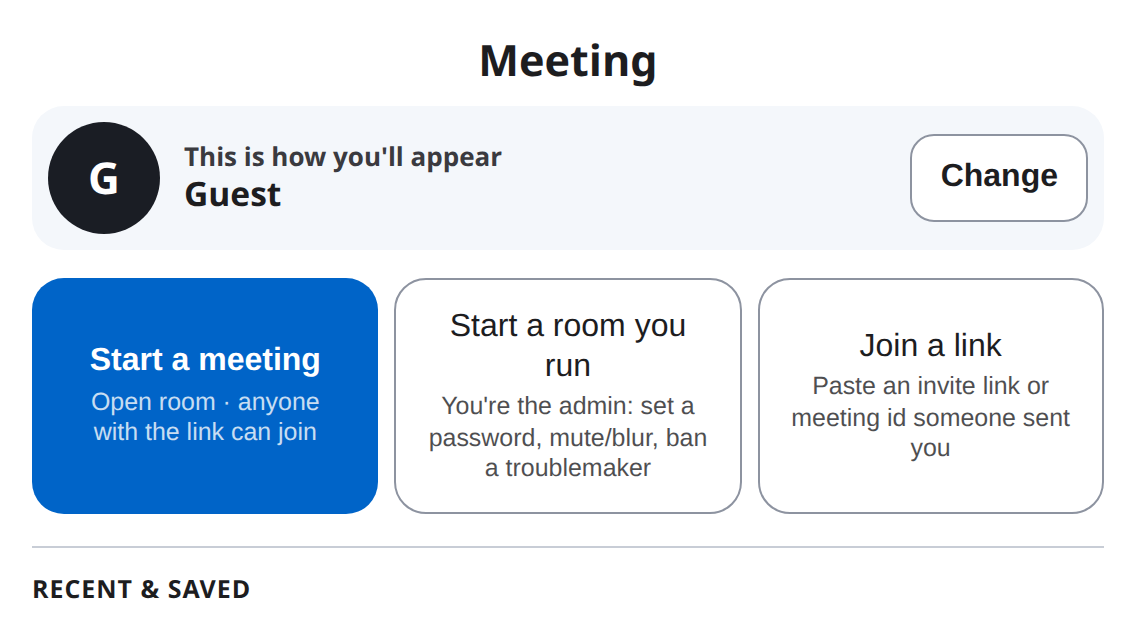
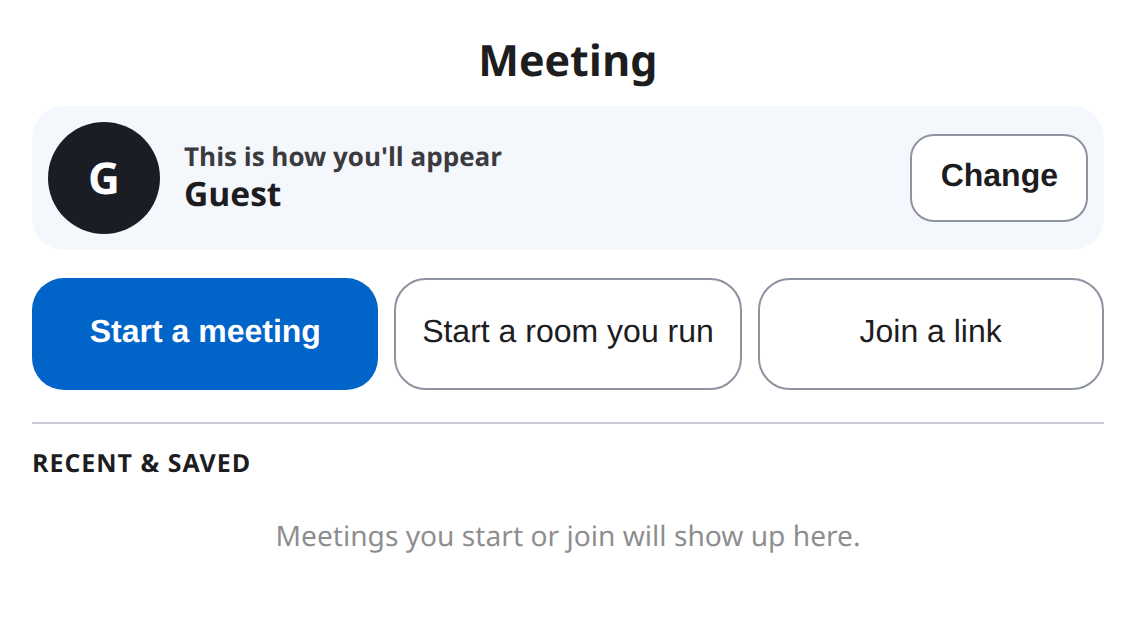
Meet mobile: keep Start and Join on screen at 200% text.
A phone lobby drops the essay under each action so the titles can grow and still fit an SE, including sideways. Start stays the only blue button.

diff --git a/test/mobile/lobby-large-text.js b/test/mobile/lobby-large-text.js
@@ -1,0 +1,89 @@
+/*
+ * At 200% text a church volunteer on an SE still has to see Start and
+ * Join without scrolling. The essays under the buttons used to push Join
+ * off a 568px screen.
+ *
+ *   NODE_PATH=/tmp/qa-pw/node_modules node test/mobile/lobby-large-text.js
+ */
+const fs = require('fs');
+const path = require('path');
+const { chromium, devices } = require('playwright');
+
+const BASE = process.env.MEET_BASE || 'http://127.0.0.1:8765';
+const SHOTS = path.join(__dirname, '..', '..', 'qa', 'mobile', 'shots');
+const IDS = ['lob-open', 'lob-admin-btn', 'lob-join-btn'];
+
+function land(device) {
+  const o = Object.assign({}, device);
+  o.viewport = { width: device.viewport.height, height: device.viewport.width };
+  return o;
+}
+
+(async () => {
+  fs.mkdirSync(SHOTS, { recursive: true });
+  const browser = await chromium.launch({ headless: true });
+  const failures = [];
+  const phones = [
+    { name: 'iphone-se-200', device: devices['iPhone SE'] },
+    { name: 'iphone-se-land-200', device: land(devices['iPhone SE']) },
+  ];
+  for (const phone of phones) {
+    const context = await browser.newContext(Object.assign({}, phone.device, { hasTouch: true }));
+    await context.addInitScript(() => { try { localStorage.setItem('gifos_ui_scale', '2'); } catch (e) {} });
+    const page = await context.newPage();
+    await page.goto(BASE + '/run.html', { waitUntil: 'domcontentloaded', timeout: 20000 });
+    await page.waitForSelector('#lob-join-btn', { timeout: 15000 });
+    await page.waitForTimeout(200);
+    const info = await page.evaluate((ids) => {
+      const vh = window.innerHeight, vw = window.innerWidth;
+      return {
+        vh: vh, vw: vw,
+        buttons: ids.map((id) => {
+          const el = document.getElementById(id);
+          const b = el.getBoundingClientRect();
+          const cs = getComputedStyle(el);
+          return {
+            id: id,
+            top: b.top, bottom: b.bottom, left: b.left, right: b.right,
+            h: b.height, w: b.width,
+            font: parseFloat(cs.fontSize),
+            bg: cs.backgroundColor,
+          };
+        }),
+      };
+    }, IDS);
+    const bad = [];
+    const buttons = info.buttons;
+    for (const b of buttons) {
+      if (b.h < 44) bad.push(b.id + ' is ' + Math.round(b.h) + 'px tall');
+      if (b.font < 30) bad.push(b.id + ' font ' + b.font + 'px');
+      if (b.top < -1 || b.left < -1 || b.bottom > info.vh + 1 || b.right > info.vw + 1) {
+        bad.push(b.id + ' off screen (bottom ' + Math.round(b.bottom) + ', vh ' + info.vh + ')');
+      }
+    }
+    const start = buttons[0];
+    if (start.bg !== 'rgb(0, 100, 200)') bad.push('Start is ' + start.bg);
+    for (const b of buttons.slice(1)) {
+      if (b.bg === start.bg) bad.push(b.id + ' is the same color as Start');
+    }
+    for (let i = 0; i < buttons.length; i++) {
+      for (let j = i + 1; j < buttons.length; j++) {
+        const a = buttons[i], b = buttons[j];
+        const overlap = a.right > b.left + 1 && a.left < b.right - 1 && a.bottom > b.top + 1 && a.top < b.bottom - 1;
+        if (overlap) bad.push(a.id + ' overlaps ' + b.id);
+        const gap = Math.max(b.top - a.bottom, a.top - b.bottom, b.left - a.right, a.left - b.right);
+        if (gap < 8) bad.push(a.id + ' is ' + Math.round(gap) + 'px from ' + b.id);
+      }
+    }
+    const shot = (bad.length ? 'before' : 'after') + '-lobby-200-' + phone.name + '.png';
+    await page.screenshot({ path: path.join(SHOTS, shot) });
+    if (bad.length) failures.push(phone.name + ': ' + bad.join('; '));
+    await context.close();
+  }
+  await browser.close();
+  if (failures.length) {
+    console.error('FAIL\n' + failures.join('\n'));
+    process.exit(1);
+  }
+  console.log('PASS lobby large text');
+})().catch((e) => { console.error(e); process.exit(1); });

diff --git a/run.html b/run.html
@@ -1617,6 +1617,12 @@ requestAnimationFrame(chk);setTimeout(show,1500);})();</script>
     #lobby.show { grid-template-rows: minmax(140px, 1.15fr) minmax(0, 1fr); }
     #lobby .lobby-card { max-width: none; margin: -18px 0 0; border-radius: 22px 22px 0 0; padding: 16px 16px 18px; overflow: auto; position: relative; }
     .lob-pv-name { bottom: 28px; }
+    /* The line under each action is an essay. At 200% text it pushed Join
+       off an SE. The button title is the action, and the padding stays a
+       fixed 10px so the label can grow without leaving the screen. */
+    #lobby .lob-actions small { display: none; }
+    #lobby.show .lob-actions .lob-primary,
+    #lobby.show .lob-actions .lob-action { padding: 10px 12px; margin-bottom: 8px; }
   }
   @media (min-width: 701px) {
     #lobby.show { grid-template-columns: 1.35fr .8fr; }

diff --git a/BENCHMARK.md b/BENCHMARK.md
@@ -37,11 +37,11 @@ A volunteer and an older member, a service or a small group, often a phone held 
 
 | Job | Score | Note |
 | --- | --- | --- |
-| Start or join from the lobby on an SE | 8 | Join is on screen in portrait and in landscape. Start is the only blue button. |
+| Start or join from the lobby on an SE | 9 | Join is on screen in portrait and in landscape, including at 200% text. Start is the only blue button. The phone shows the action, not the essay under it. |
 | Tap targets for someone who misses small controls | 9 | Dock grip, chat close, Send, and Fit are 44px, including on an iPhone 15. Blur for all is a 64px square, inset from the tile corner, on a phone and on the desktop. |
 | Captions a member can find, at 200% text | 8 | Captions is on the call, says Captions, and the label is 32px at 200% text. |
 | Host runs the room from the phone they already hold | 10 | Live, Record, and Captions are on the call. The phone sheet opens on Invite, Room password, Waiting room, and Chat. Invite is the blue one. Vote on someone and Step on stage scroll. |
-| **Audience** | **9** | Join, Captions, the dock, Fit, landscape More, and a waiting-room list work on a phone. More no longer covers the faces with a wall of buttons. We do not lead yet. |
+| **Audience** | **9** | Join stays on screen at 200% text. Captions, the dock, Fit, landscape More, and a waiting-room list work on a phone. We do not lead yet. |
 
 ## Personal
 
@@ -87,3 +87,4 @@ Family and friends. Warm, few steps, a texted link.
 28. Blur for all. The per-tile control was 83×32 and flush with the corner. It is now a 64px square, 12px in from the corner, on a phone and on the desktop. `test/mobile/blur-tile.js` passes. Church tap targets 8→9. Audience scores stay 9 / 9 / 9. Nobody leads yet.
 29. Join Clear and Save. The step said Not now and Continue. Clear blanks the name and the picture. Save keeps both and stays the solid button. `test/mobile/appear-preview.js` passes. Personal name row 8→9. Audience scores stay 9 / 9 / 9. Nobody leads yet.
 30. Sideways tiles. `test/mobile/sideways-tiles.js` failed (SE 141×46 aspect 3.07, iPhone 15 bottom pair 130×60 aspect 2.19), then passed. Fit shares the header row on a short landscape phone, and a tile that would have been a strip stays within a portrait-phone shape. Desktop packing is unchanged. Personal sideways 8→9. Audience scores stay 9 / 9 / 9. Nobody leads yet.
+31. Lobby at 200% text. `test/mobile/lobby-large-text.js` failed (Join bottom 986 on a 568px SE, and all three actions bottom 539 on a sideways SE), then passed. A phone shows the action title only, with tighter padding, so Start and Join stay on screen and Start stays the only blue button. Church lobby 8→9. Audience scores stay 9 / 9 / 9. Nobody leads yet. Captions are still the low church row.

diff --git a/QUIRKS.md b/QUIRKS.md
@@ -251,6 +251,14 @@ Fit now shares the name-chip row on a short landscape phone, so the faces start 
 
 Before: `qa/mobile/shots/before-sideways-tiles-iphone-se.png`, `qa/mobile/shots/before-sideways-tiles-iphone-15.png`. After: `qa/mobile/shots/after-sideways-tiles-iphone-se.png`, `qa/mobile/shots/after-sideways-tiles-iphone-15.png`.
 
+### 31. At 200% text the lobby hid Join
+
+On an iPhone SE with the text size at 200%, Join a link ended at y=986 on a 568px screen. The admin action ended at 772. Sideways, all three actions ended at 539 on a 320px screen. The essay under each button was the height.
+
+Repro: `test/mobile/lobby-large-text.js`. On a phone the essay is hidden and the padding stays 10px, so the title can grow and Start, the room you run, and Join stay on screen. Start stays the only blue button. A wide screen still shows the essay.
+
+Before: `qa/mobile/shots/before-lobby-200-iphone-se-200.png`, `qa/mobile/shots/before-lobby-200-iphone-se-land-200.png`. After: `qa/mobile/shots/after-lobby-200-iphone-se-200.png`, `qa/mobile/shots/after-lobby-200-iphone-se-land-200.png`.
+
 ## Open
 
 The build name is a faint line under the header. A green round "A" in Nathan's shot did not appear in the Playwright capture. Fit and the name chip stay while the dock is tucked.
